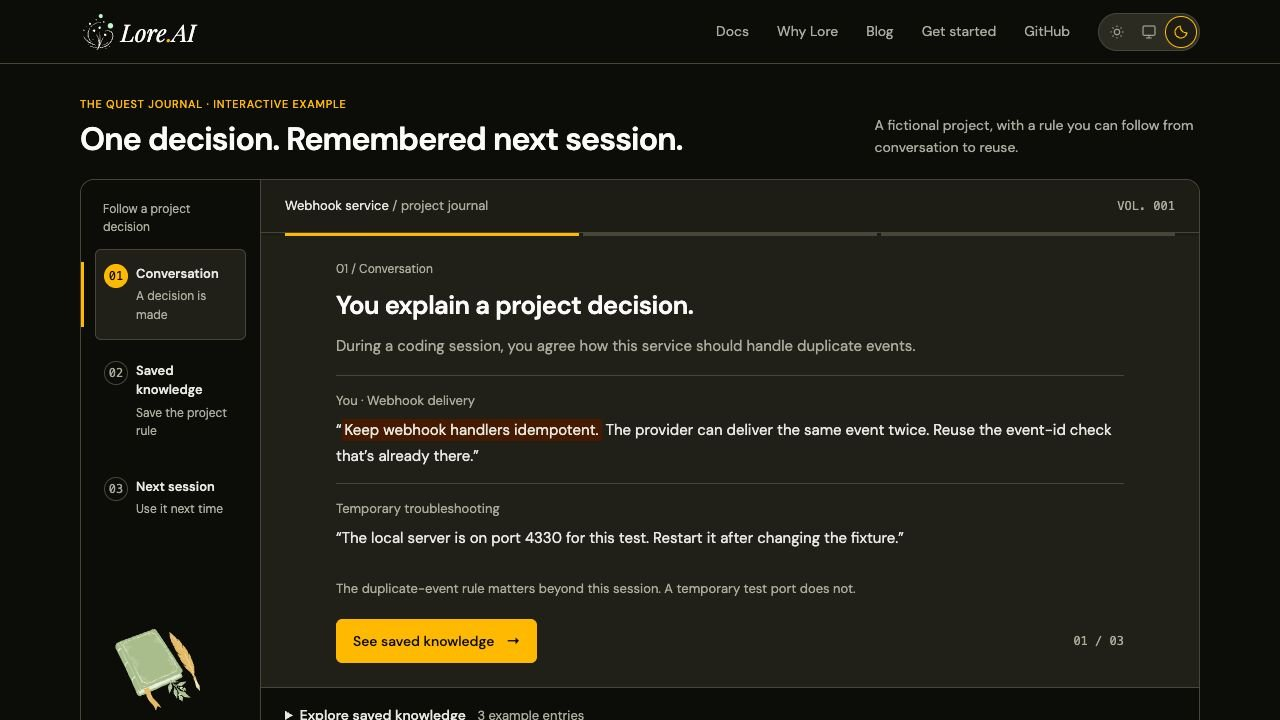
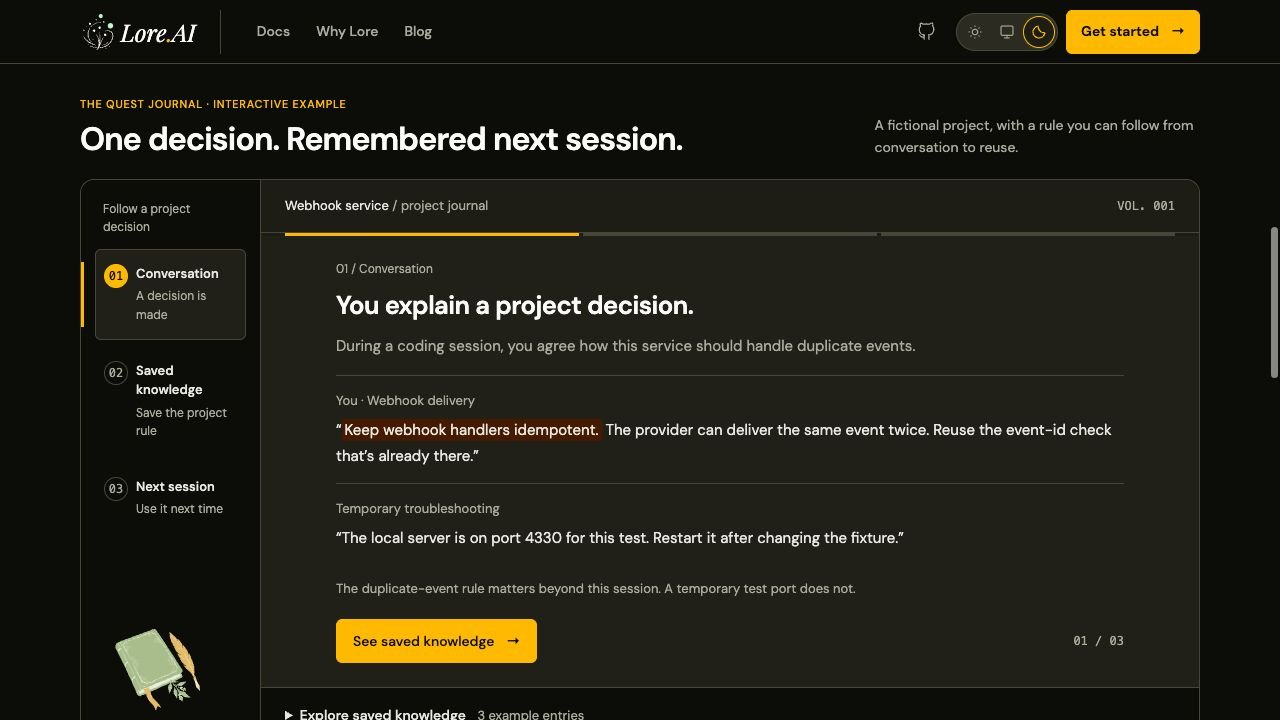
style(website): Give the top navigation a clear hierarchy
Group page links beside the brand and share GitHub, theme, and installation controls across public and documentation headers. Keep complete native mobile navigation and cover responsive layout and no-JavaScript access.

diff --git a/packages/website/public/controls.css b/packages/website/public/controls.css
@@ -8,10 +8,10 @@
 @media (pointer:coarse) { .theme-toggle button { width:44px;height:44px; } }
 :where(a, button, input, select, textarea, summary, [tabindex]):focus-visible { outline: 2px solid var(--accent); outline-offset: 3px; }
 ::selection { background: var(--accent-soft); color: var(--accent-soft-text); }
-.primary-nav ul { display: flex; align-items: center; flex-wrap: wrap; gap: .25rem .25rem; list-style: none; padding: 0; margin: 0; }
-.primary-nav a { display: inline-flex; align-items: center; min-height: 44px; padding:.5rem .75rem; border-radius:var(--radius-control); color: var(--muted); font-size: .875rem; text-decoration: none; }
+.primary-nav ul { display: flex; align-items: center; flex-wrap: nowrap; gap: .125rem; list-style: none; padding: 0; margin: 0; }
+.primary-nav a { display: inline-flex; align-items: center; min-height: 44px; padding:.5rem .75rem; border-radius:var(--radius-control); color: var(--muted); font-size: .875rem; font-weight:500; text-decoration: none; }
 .primary-nav a:hover { color: var(--heading); background:var(--chrome); }
-.primary-nav a[aria-current] { color:var(--accent-soft-text); background:var(--accent-soft); }
+.primary-nav a[aria-current] { color:var(--heading); background:transparent;text-decoration:underline;text-decoration-color:var(--accent);text-decoration-thickness:2px;text-underline-offset:.55rem; }
 .primary-nav-mobile ul { display: block; }
 .primary-nav-mobile a { display: flex; padding-inline: .75rem; }
 .primary-nav-mobile a:hover { background: var(--chrome); }
@@ -26,3 +26,14 @@
 }
 @media (max-width: 380px) { .logo .logo-text { display: none; } }
 @media (forced-colors: active) { .theme-toggle button[aria-pressed="true"] { outline: 2px solid Highlight; } }
+
+/* Navigation is separate from utilities and the single installation action. */
+.header-utilities { display:flex;align-items:center;gap:.5rem;flex-shrink:0; }
+.header-github { display:inline-flex;align-items:center;justify-content:center;width:44px;height:44px;border-radius:var(--radius-control);color:var(--muted);text-decoration:none; }
+.header-github:hover { background:var(--chrome);color:var(--heading); }
+.header-github svg { display:block; }
+.header-start,.primary-nav a.nav-start { display:inline-flex;align-items:center;justify-content:center;gap:.75rem;min-height:44px;padding:.5rem .875rem;border:1px solid transparent;border-radius:var(--radius-control);background:var(--accent);color:var(--accent-contrast);font-size:.875rem;font-weight:600;text-decoration:none;white-space:nowrap; }
+.header-start:hover,.primary-nav a.nav-start:hover { background:var(--accent-hover);color:var(--accent-contrast); }
+.primary-nav-mobile a { width:100%; }
+.primary-nav-mobile a.nav-start { margin-top:.5rem; }
+@media(max-width:50rem) { .header-github,.header-start { display:none; } }

diff --git a/packages/website/test/browser/header.spec.ts b/packages/website/test/browser/header.spec.ts
@@ -1,0 +1,72 @@
+import { expect, test } from "@playwright/test";
+
+test("desktop navigation separates sections from utilities and the install action", async ({
+  page,
+}) => {
+  await page.setViewportSize({ width: 1280, height: 900 });
+  for (const path of ["/", "/docs/install/", "/blog/"]) {
+    await page.goto(path);
+    const header = page.locator("header").first();
+    const nav = header.getByRole("navigation", {
+      name: "Primary navigation",
+      exact: true,
+    });
+    await expect(nav.getByRole("link")).toHaveText([
+      "Docs",
+      "Why Lore",
+      "Blog",
+    ]);
+    const start = header.getByRole("link", {
+      name: "Get started",
+      exact: true,
+    });
+    await expect(start).toBeVisible();
+    await expect(start).toHaveAttribute("href", "/docs/install/");
+    const appearance = await start.evaluate((el) => ({
+      background: getComputedStyle(el).backgroundColor,
+      color: getComputedStyle(el).color,
+    }));
+    const docsBackground = await nav
+      .getByRole("link", { name: "Docs", exact: true })
+      .evaluate((el) => getComputedStyle(el).backgroundColor);
+    expect(appearance.background).not.toBe(docsBackground);
+    expect(appearance.background).not.toBe("rgba(0, 0, 0, 0)");
+    const github = header.getByRole("link", { name: "GitHub", exact: true });
+    await expect(github.locator("svg")).toHaveCount(1);
+    await expect(github).toHaveAttribute("rel", /noopener/);
+    await expect(
+      header.getByRole("group", { name: "Colour theme", exact: true }),
+    ).toBeVisible();
+  }
+});
+
+test("the native phone menu keeps every destination and a readable install action", async ({
+  browser,
+  baseURL,
+}) => {
+  const context = await browser.newContext({
+    javaScriptEnabled: false,
+    viewport: { width: 320, height: 844 },
+    isMobile: true,
+    hasTouch: true,
+  });
+  try {
+    const page = await context.newPage();
+    await page.goto(`${baseURL}/`);
+    await page.getByLabel("Toggle navigation menu", { exact: true }).click();
+    const nav = page.locator(".nav-mobile-panel").getByRole("navigation");
+    await expect(nav.getByRole("link")).toHaveText([
+      "Docs",
+      "Why Lore",
+      "Blog",
+      "GitHub",
+      "Get started",
+    ]);
+    const start = nav.getByRole("link", { name: "Get started", exact: true });
+    await expect(start).toBeVisible();
+    await start.click();
+    await expect(page).toHaveURL(/\/docs\/install\/$/);
+  } finally {
+    await context.close();
+  }
+});

diff --git a/packages/website/public/theme.css b/packages/website/public/theme.css
@@ -42,7 +42,9 @@ code { font-family: ui-monospace, SFMono-Regular, Menlo, Consolas, monospace; fo
 .button:disabled { cursor: wait; opacity: .65; }
 .text-link { display: inline-flex; align-items: center; min-height: 44px; font-weight: 500; }
 .top-nav { position: sticky; top: 0; z-index: 50; display: flex; align-items: center; justify-content: space-between; gap: 1rem; min-height: 64px; padding: .5rem max(1.5rem, calc((100% - 1120px) / 2)); background: var(--surface); border-bottom: 1px solid var(--line); }
-.header-actions { display: flex; align-items: center; gap: 1rem; }
+.header-actions { display: flex; align-items: center; gap: .75rem; }
+.header-brand { display:flex;align-items:center;gap:1.5rem;min-width:0; }
+.header-brand .desktop-nav { padding-inline-start:1.5rem;border-inline-start:1px solid var(--line); }
 .logo { display: inline-flex; align-items: center; gap: .3rem; color: var(--heading); line-height: 1; text-decoration: none; flex-shrink: 0; }
 .logo-img { display: block; }
 .logo-text { font: italic 400 1.5rem/1 var(--serif); }
@@ -108,6 +110,7 @@ th { font-weight: 500; }
 .skip-link:focus { transform: none; }
 @media (max-width: 900px) {
   .desktop-nav { display: none; }
+  .top-nav :is(.header-github,.header-start) { display:none; }
   .nav-mobile { display: block; }
   .header-actions { gap: .75rem; }
   .home-hero { grid-template-columns: 1fr; gap: 2rem; }

diff --git a/docs/website-ui/README.md b/docs/website-ui/README.md
@@ -131,7 +131,7 @@ product-tour contracts remain covered. Test results and the broader root-suite
 limitations are recorded in the PR; website checks alone do not imply a passing
 core/gateway suite or completed assistive-technology certification.
 
-Current validation: 352 browser checks pass with eight conditional skips across five
+Current validation: 362 browser checks pass with eight conditional skips across five
 viewport/appearance configurations; the final diagram alignment regression passes
 in all five. Thirteen website unit tests and Astro diagnostics pass. A prefixed
 build serves all 37 HTML pages and exercises journal history, setup/tour state,
@@ -139,3 +139,30 @@ local images and Pagefind navigation at 1280px and 320px without failed assets o
 runtime errors. All 817 internal fragment links and 91 local HTTP destinations pass. Separate correctness and security reviews audit parser stability,
 SVG geometry/paint safety, and factual boundaries. Full repository testing remains
 separate and is reported with exact local failures in the PR.
+
+## Top navigation refinement
+
+The latest header groups Docs, Why Lore and Blog beside the logo. Static GitHub,
+theme and installation controls sit together on the right; the journal and theme
+controller are unchanged. The mobile menu retains every text destination and
+works without JavaScript. Other feature captures above document the product-story
+pass; these screenshots show the current header across appearances and widths.
+
+| Before | After | Why |
+| --- | --- | --- |
+| Five equally weighted links | Three section links plus a clear Get started action | Separate browsing from starting setup |
+| GitHub text competes with page links | Quiet icon with an accessible GitHub name | Keep the utility available with less visual weight |
+| Filled active navigation tile | Short colored underline | Mark the current section without another container |
+| Plain mobile installation link | Full-width installation action in the native menu | Make the next action easy to find |
+
+![Light header](screenshots/header-home-light.jpg)
+![Dark documentation header](screenshots/header-docs-dark.jpg)
+![Intermediate documentation header](screenshots/header-docs-834-light.jpg)
+![Light native phone menu](screenshots/header-menu-mobile-light.jpg)
+![Dark native phone menu](screenshots/header-menu-mobile-dark.jpg)
+
+The complete website suite passes 362 browser checks with eight conditional skips.
+The focused header/current-section/search/short-screen checks pass all 25 cases;
+Astro checks 45 files without diagnostics. Separate correctness/security reviews
+classify this as a mechanical presentation change and preserve the prior broad
+repository test limitations rather than treating them as green.

diff --git a/docs/superpowers/plans/2026-11-06-header.md b/docs/superpowers/plans/2026-11-06-header.md
@@ -1,0 +1,33 @@
+# Header Refinement Implementation Plan
+
+> **For agentic workers:** REQUIRED SUB-SKILL: Use superpowers:executing-plans inline for this single task.
+
+**Goal:** Give the top bar clear navigation/action hierarchy in the same PR.
+**Architecture:** Share three primary links and a static utility/action component across public and Starlight headers. Native mobile menus keep text destinations.
+**Tech Stack:** Existing Astro and CSS, native links/details; no new dependency.
+**Spec:** docs/superpowers/specs/2026-11-06-header-design.md
+
+## Global constraints
+
+Keep the RPG journal and compact three-icon theme pill. Retain all destinations,
+current-section semantics, base-prefixed URLs, no-JS navigation, reduced motion,
+44px touch targets, keyboard focus and 320px containment. Same PR, no merge.
+
+## Review focus
+
+- Intermediate widths: docs search, utilities and links must not overlap.
+- Coarse pointers: existing 44px theme controls must fit with logo and menu.
+- Mobile and no JS: all five destinations stay readable and reachable.
+- External icon: GitHub has an accessible name and safe new-tab attributes.
+- Current sections: installation marks Docs rather than a second active action.
+
+### Task 1: Grouped navigation and useful action hierarchy
+
+**Files:** PrimaryLinks.astro, PublicHeader.astro, SiteHeader.astro, new HeaderActions.astro, controls.css, theme.css, header browser regression, visual evidence.
+**Interfaces:** PrimaryLinks keeps mobile?:boolean; HeaderActions emits static GitHub/theme/install controls, with CSS hiding utilities already available in the small-screen menu.
+
+- [x] Add browser regressions for three desktop destinations, differentiated Get started, and native mobile access; observe RED.
+- [x] Implement shared utility controls, adjacent logo/navigation grouping, quiet selected marker and mobile layout.
+- [x] Run full website browsers, units, Astro, formatting and targeted static checks; visually inspect light/dark and phone/intermediate headers.
+- [x] Obtain separate correctness/security review of this presentation-only delta; retain earlier broad-suite limitations.
+- [x] Refresh evidence, commit and push to the same draft PR with gh verification.

diff --git a/docs/superpowers/specs/2026-11-06-header-design.md b/docs/superpowers/specs/2026-11-06-header-design.md
@@ -1,0 +1,22 @@
+# Public navigation refinement
+
+The user is unhappy with the top navigation and confirmed that target after the
+site-wide visual update. Continue the authorized website refinements in PR2115,
+keep the journal and the compact Light/System/Dark pill.
+
+## Approaches and decision
+
+A centered navigation capsule adds a separate container competing with the theme
+pill. An RPG menu with renamed destinations weakens the clearer product story.
+Use the app-like grouping proposed in chat: Logo + Docs/Why Lore/Blog on the left;
+GitHub icon + existing theme pill + prominent Get started action on the right.
+The grouping and exact spacing are implementation calls, not new product behavior.
+
+Use the same primary links and utility controls on public pages and docs. Keep
+all five destinations readable in the native mobile menu and the Starlight drawer.
+Retain active-section semantics, static base-prefixed paths, all theme behavior,
+keyboard focus, 44px touch targets, reduced-motion behavior and 320px containment.
+No new dependencies, menus, settings, animations, or navigation destinations.
+
+This is a narrow continuation of the approved compact/app-consistent UI scope;
+implement inline in the existing checkout and leave the same PR draft/unmerged.

diff --git a/packages/website/README.md b/packages/website/README.md
@@ -35,7 +35,10 @@ navigation and readable content remain available without JavaScript.
 ## Page structure and first use
 
 `PublicLayout.astro` owns the common public header/footer. `PrimaryLinks.astro`
-is also used by the docs header and drawer; section links remain secondary.
+is also used by the docs header and drawer. Desktop navigation groups three section
+links beside the logo. `HeaderActions.astro` shares the accessible GitHub icon,
+existing theme pill and clear installation action. Native mobile menus keep all
+five text destinations, with an emphasized Get started link.
 `InstallCommand.astro` and `Waitlist.astro` keep command and signup copy consistent.
 Native disclosures provide navigation without JavaScript. `menus.js` adds dismissal
 and focus restoration; `site.js` owns copy receipts, a bounded release lookup, and
